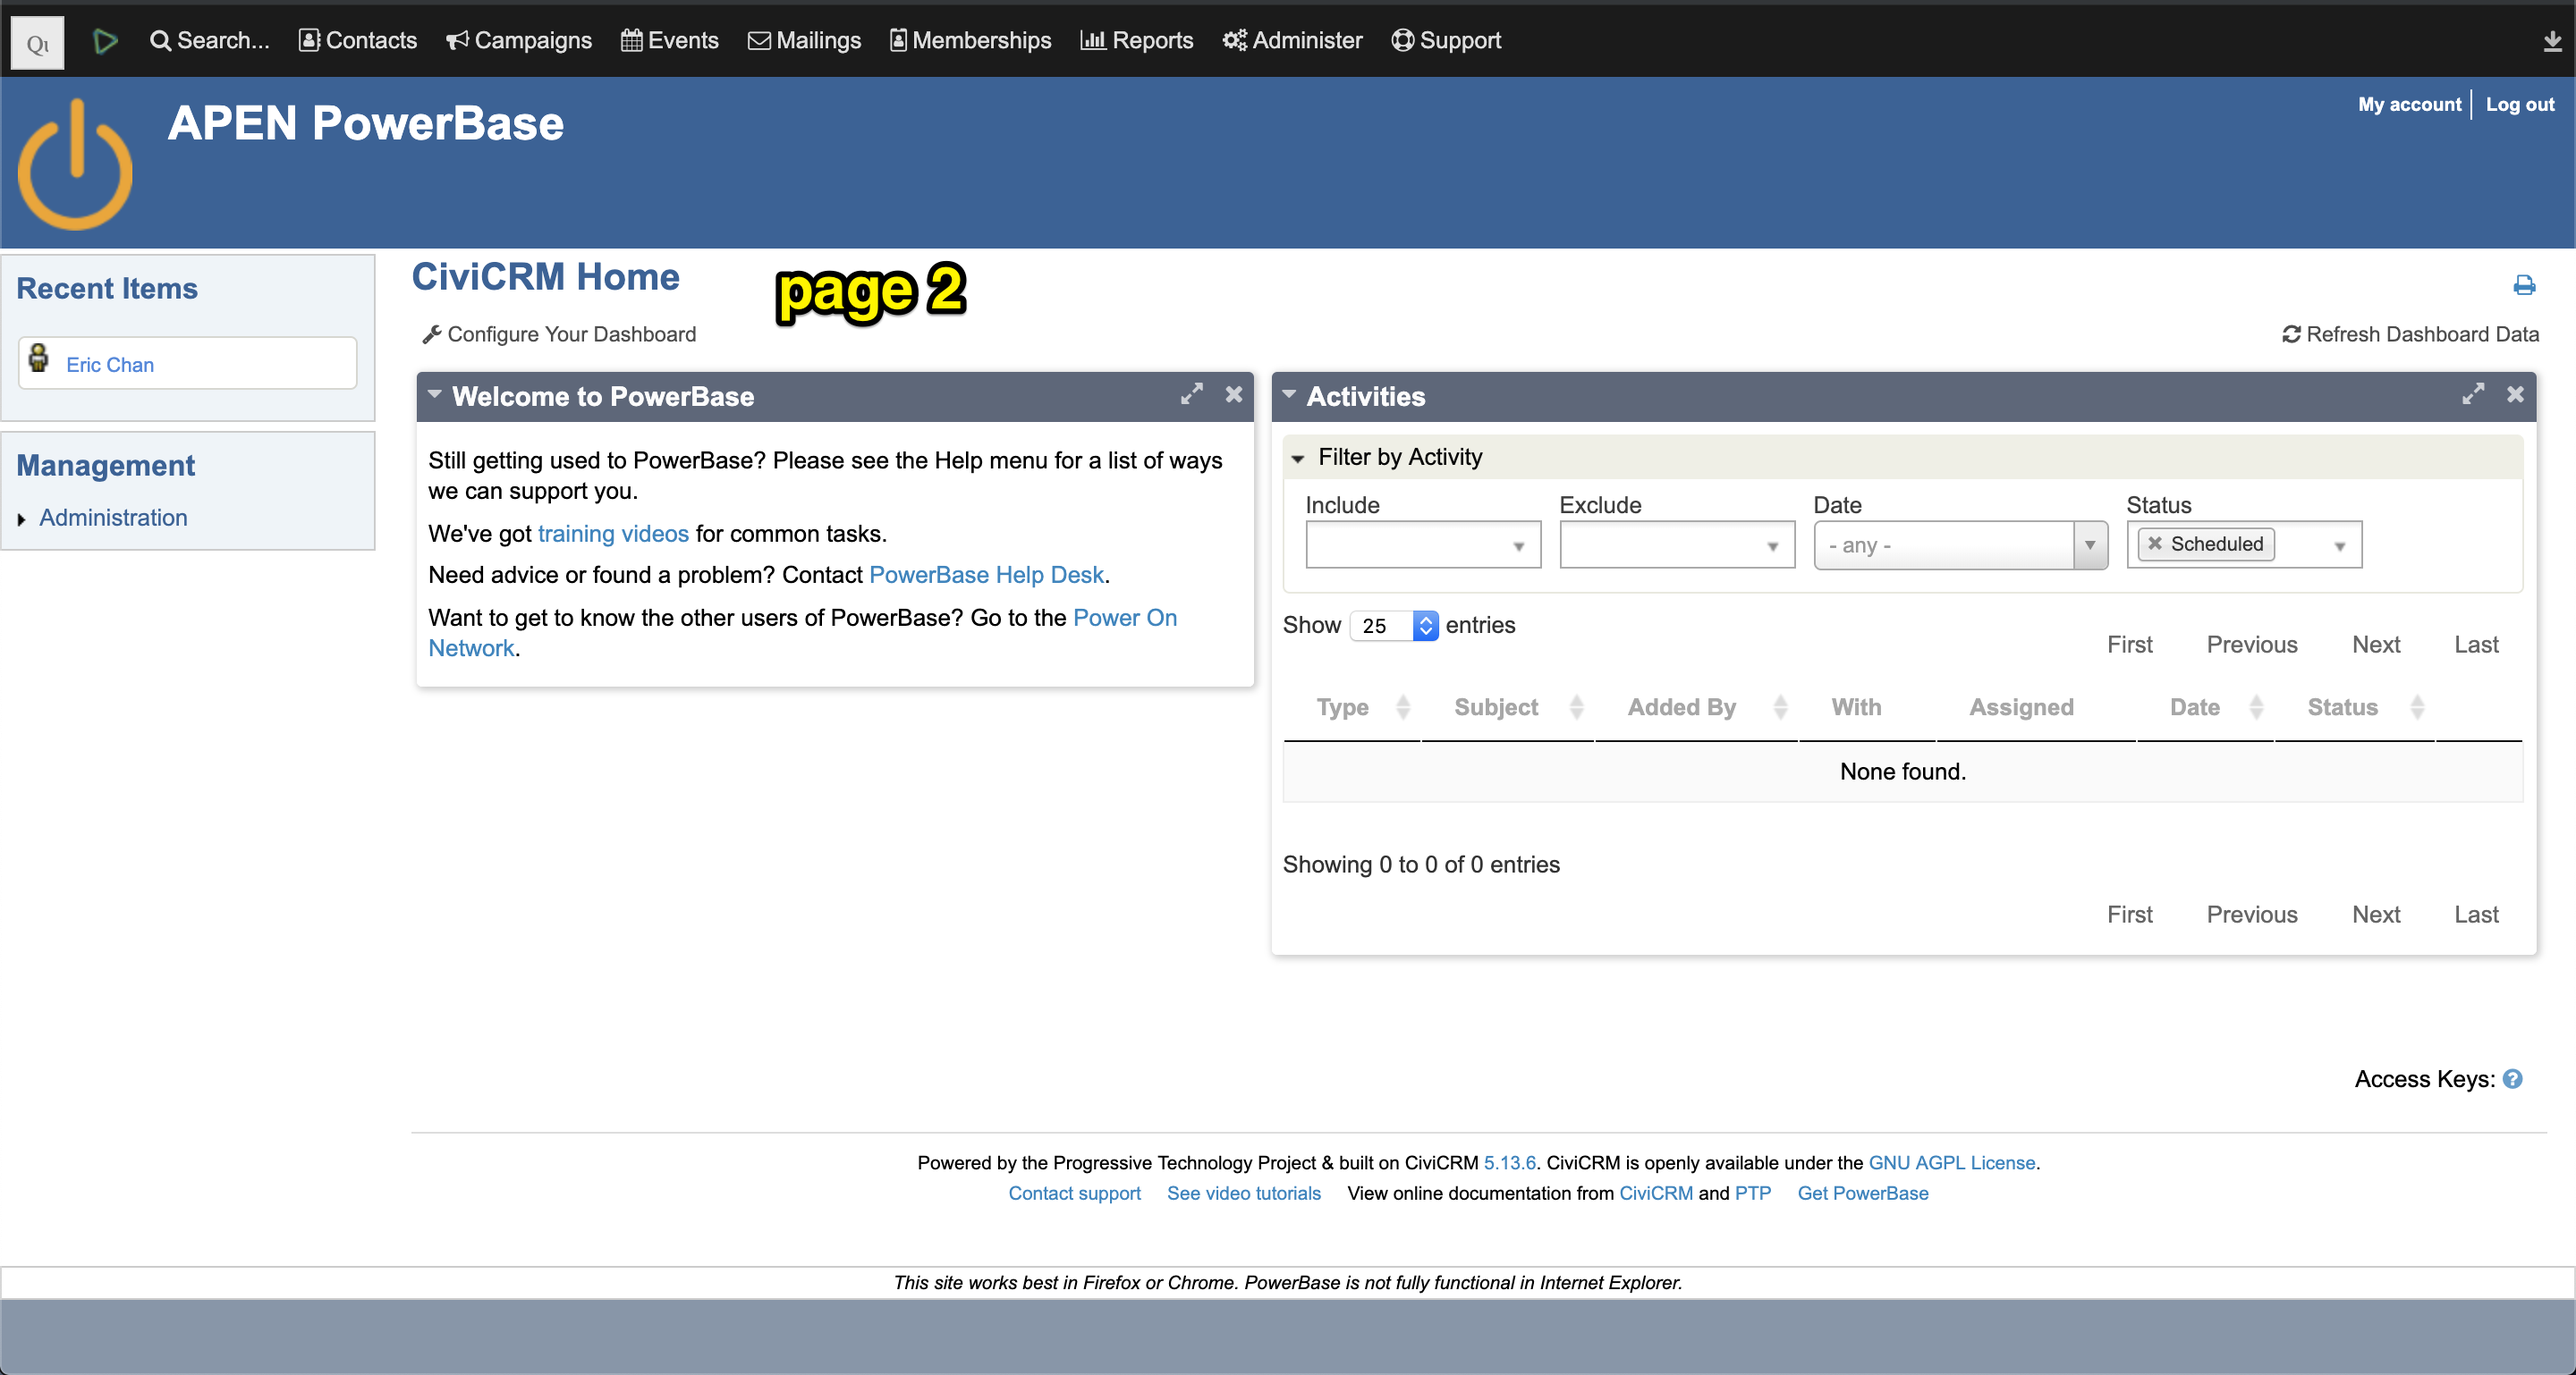
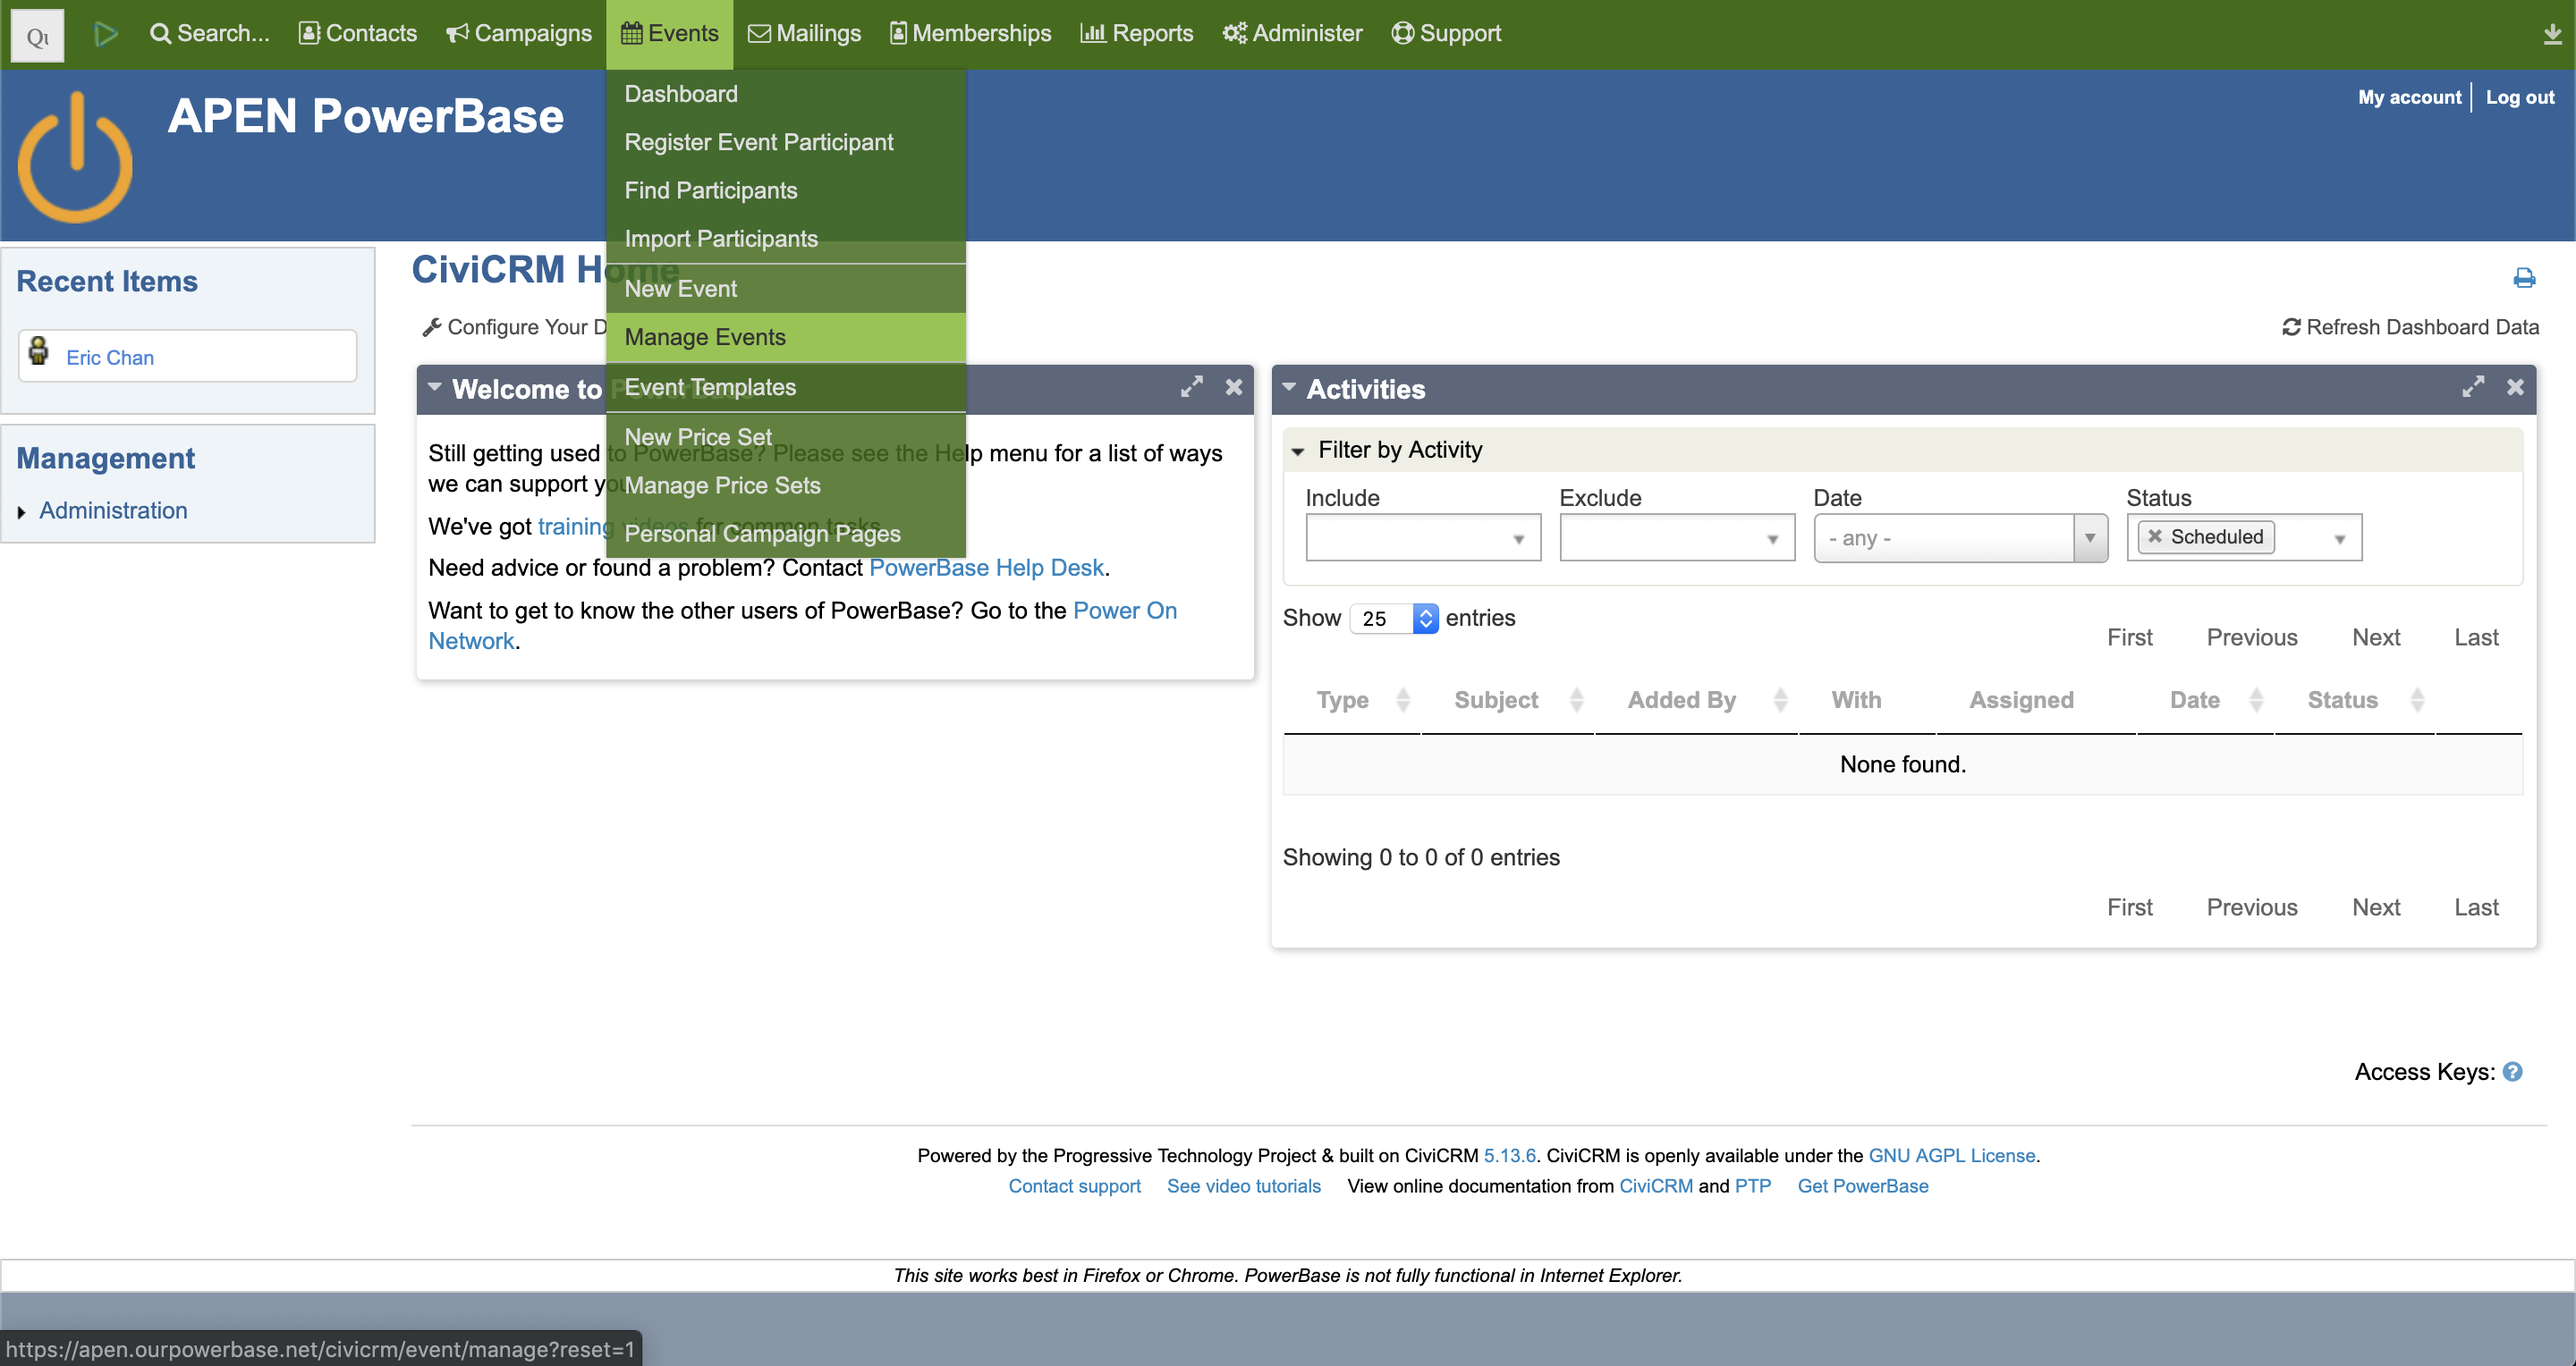
add page

diff --git a/public_html/js/features.js b/public_html/js/features.js
@@ -2,20 +2,23 @@
 var tour = new Tour({
     steps: [{
             element: "#top",
-            title: "Top Title of my step",
-            content: "Content of my step"
+            title: "How to Mass Edit Participant Statuses",
+            content: 'Click here to access "Events"'
         },
+
         {
-            element: "#bottom",
-            title: "Bottom Title of my step",
-            content: "Content of my step",
-        },
-        {
-            element: "#top",
-            title: "Third Title of my Step 1, Page 2",
-            content: "Content of my step",
+            element: "#top2",
+            title: "How to Mass Edit Participant Statuses",
+            content: 'Click on "Manage Events"',
             path: "/page2.html"
-        }
+        },
+
+        {
+            element: "#top3",
+            title: "How to Mass Edit Participant Statuses",
+            content: 'Search for your event, click on "Participants" and click on the relevant sub-category',
+            path: "/page3.html"
+        },
 
     ],
     debug: true,

diff --git a/public_html/css/style.css b/public_html/css/style.css
@@ -2,21 +2,35 @@
     background-image: url("/images/page1.png");
     background-size: 100%;
     background-repeat: no-repeat;
-    color: yellow;
+    color: rgb(23, 61, 27);
 }
 
 #page2 {
     background-image: url("/images/page2.png");
     background-size: 100%;
     background-repeat: no-repeat;
-    color: pink;
+    color: rgb(23, 61, 27);
+}
+
+#page3 {
+    background-image: url("/images/page3.png");
+    background-size: 100%;
+    background-repeat: no-repeat;
+    color: rgb(23, 61, 27);
 }
 
 .fifty {
-    height: 50vh;
+    height: 5.5vh;
 }
 
 #top {
-    margin-left: 21%;
-    margin-top: 3%;
+    margin-left: 15.5%;
+    margin-right: 78%;
+    margin-top: 0%;
+}
+
+#top2 {
+    margin-left: 15.75%;
+    margin-right: 66%;
+    margin-top: 15%;
 }

diff --git a/public_html/page3.html b/public_html/page3.html
@@ -11,11 +11,11 @@
     <title>Training</title>
 </head>
 
-<body id="page2">
+<body id="page3">
     <!-- Luke, use the Grid : https://getbootstrap.com/docs/4.3/layout/grid/ -->
     <!-- https://www.w3schools.com/css/css_positioning.asp -->
     <div class="container">
-        <div class="row fifty" id="top2">
+        <div class="row fifty" id="top3">
         </div>
         <div class="row fifty justify-content-center" id="bottom">
         </div>

diff --git a/public_html/index.html b/public_html/index.html
@@ -16,10 +16,8 @@
     <!-- https://www.w3schools.com/css/css_positioning.asp -->
     <div class="container">
         <div class="row fifty" id="top">
-            why doesn't this work
         </div>
         <div class="row fifty justify-content-center" id="bottom">
-            full width bottom
         </div>
     </div>
 </body>

diff --git a/public_html/css/bootstrap-tourist.css b/public_html/css/bootstrap-tourist.css
@@ -26,7 +26,7 @@
 .tour-backdrop {
   position: absolute;
   z-index: 1100;
-  background-color: #000;
+  background-color: rgb(58, 65, 78);
   opacity: 0.8;
   filter: alpha(opacity=80);
 }
